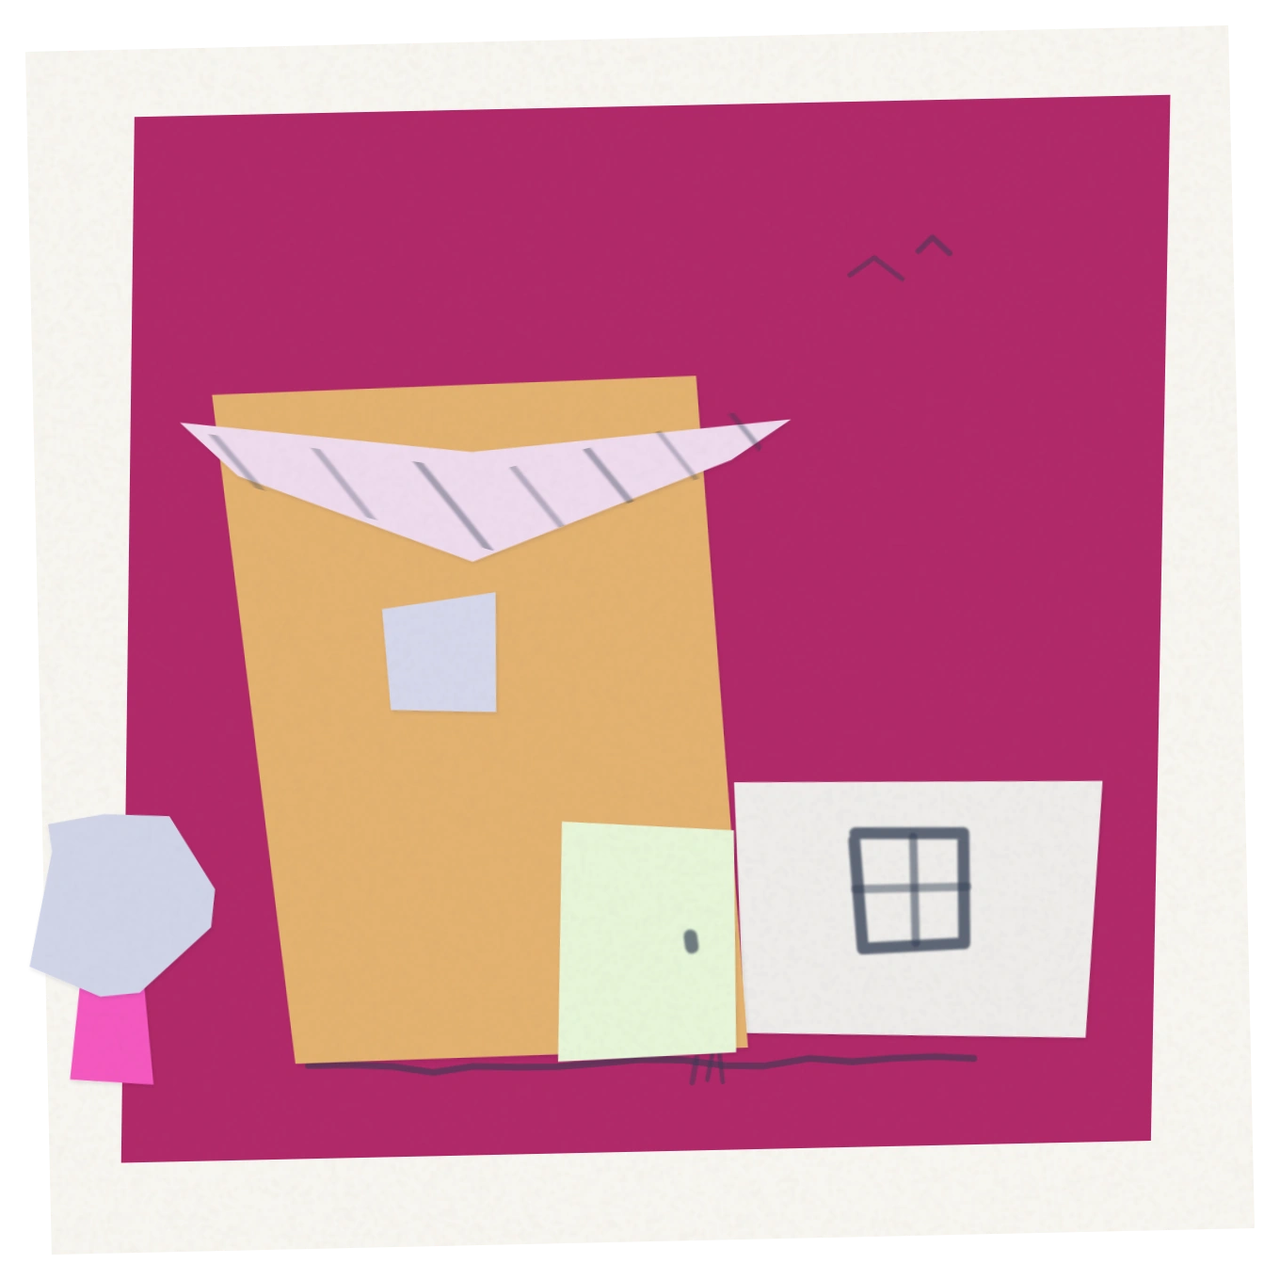
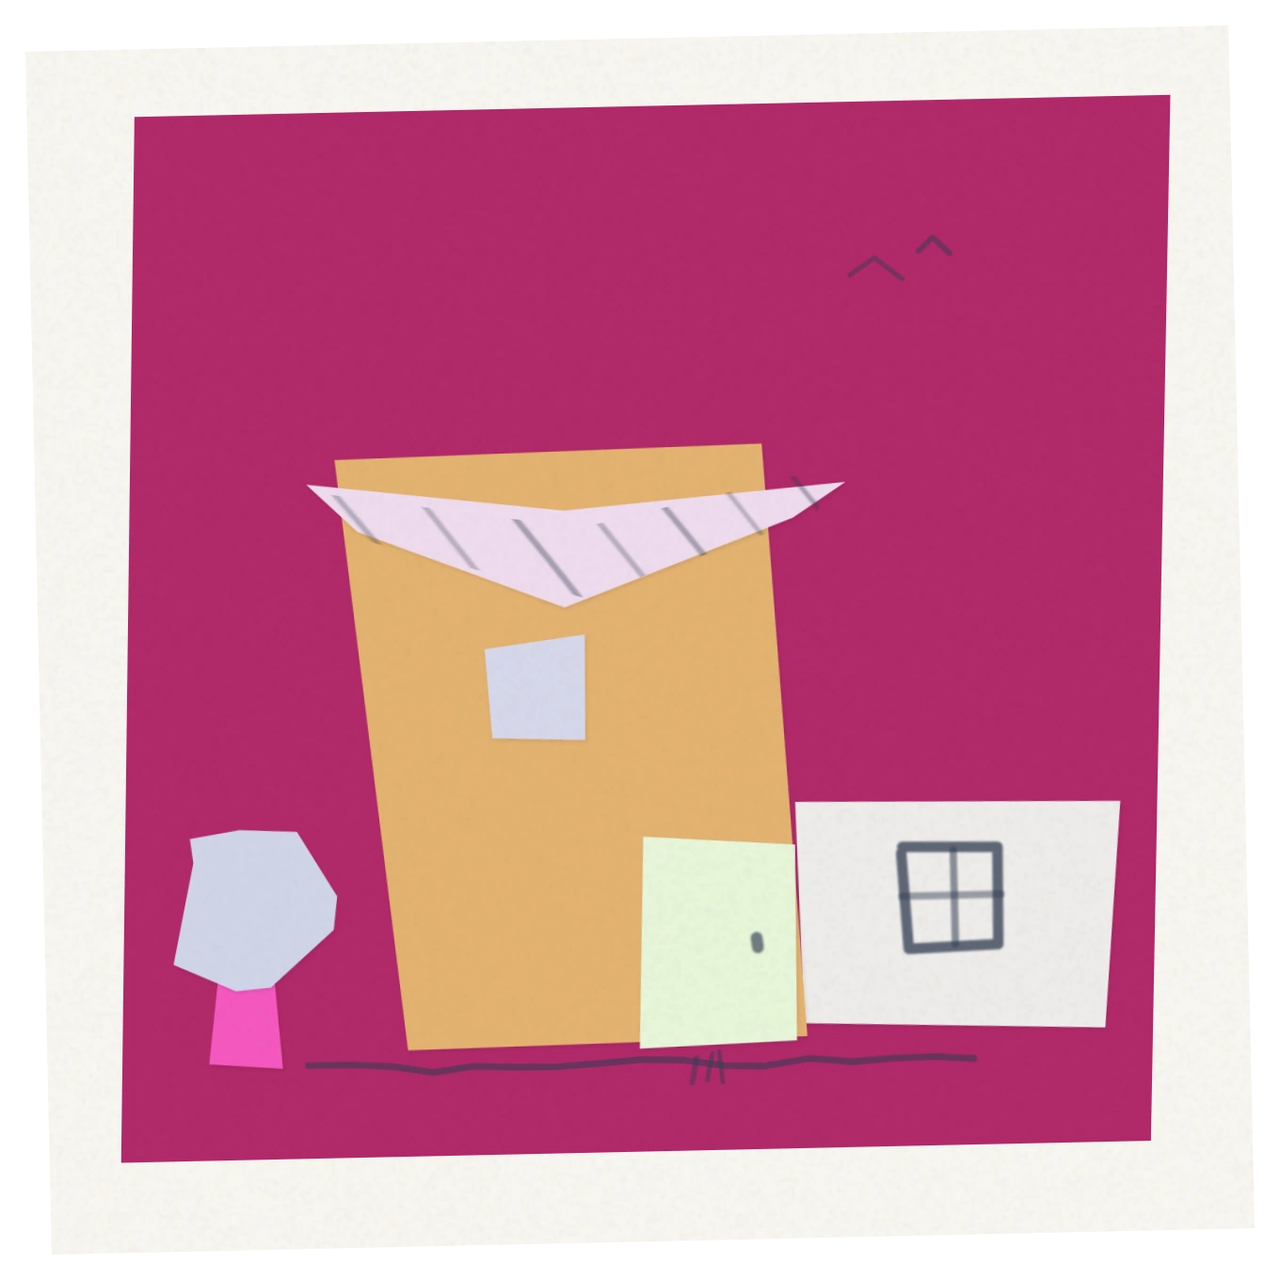
Ejemplos: humo y árbol siempre dentro de la cartulina (limitan el encuadre sin reducir la casa más allá del cap 74)

Changed region(s): [[0.0, 0.2779, 0.8956, 0.8647]]

diff --git a/renderer-examples.js b/renderer-examples.js
@@ -1,1 +1,1 @@
-!function(){var r,t="#a9c3dd",n="#34322c",a=83,i=["#34322c","#3a3833","#2e3134","#403b32","#333d52"];function e(r){return((r=Math.max(0,Math.min(255,Math.round(r))))<16?"0":"")+r.toString(16)}function o(r,t,n){r=(r%360+360)%360,n/=100;var a=(t/=100)*Math.min(n,1-n);function i(t){var i=(t+r/30)%12;return n-a*Math.max(-1,Math.min(i-3,9-i,1))}return"#"+e(255*i(0))+e(255*i(8))+e(255*i(4))}function u(){r=(r|=0)+1831565813|0;var t=Math.imul(r^r>>>15,1|r);return(((t=t+Math.imul(t^t>>>7,61|t)^t)^t>>>14)>>>0)/4294967296}function h(r,t){return r+(t-r)*u()}function f(r){return r[Math.floor(u()*r.length)]}function l(r){return Math.round(100*r)/100}function s(r,t){return[r[0]+h(-t,t),r[1]+h(-t,t)]}function c(r){return"M"+r.map(function(r){return l(r[0])+" "+l(r[1])}).join("L")+"Z"}function v(r,t){var n=p(r),a=p(t);return Math.sqrt(Math.pow(n[0]-a[0],2)+Math.pow(n[1]-a[1],2)+Math.pow(n[2]-a[2],2))}function p(r){return[1,3,5].map(function(t){return parseInt(r.substr(t,2),16)})}function M(r,t,n){return'<path d="'+c(r=function(r,t){var n=0,a=0;r.forEach(function(r){n+=r[0],a+=r[1]}),n/=r.length,a/=r.length;var i=Math.cos(t),e=Math.sin(t);return r.map(function(r){var t=r[0]-n,o=r[1]-a;return[n+t*i-o*e,a+t*e+o*i]})}(r.map(function(r){return s(r,null==n?1.1:n)}),h(-.06,.06)))+'" fill="'+t+'" filter="url(#sh)"/>'}function d(r,t,n,a){return[[r,t],[r+n,t],[r+n,t+a],[r,t+a]]}function g(r,t,n,a,i){for(var e=[],o=h(0,6.28),u=0;u<a;u++){var f=o+u*Math.PI*2/a;e.push([r+Math.cos(f)*n*h(1-i,1+i),t+Math.sin(f)*n*h(1-i,1+i)])}return e}function m(r,t,a){for(var i=[],e=0;e<r.length;e++)if(i.push(s(r[e],.22)),e<r.length-1){var o=r[e],u=r[e+1];Math.hypot(u[0]-o[0],u[1]-o[1])>6&&i.push(s([(o[0]+u[0])/2,(o[1]+u[1])/2],.3))}return'<path d="'+("M"+i.map(function(r){return l(r[0])+" "+l(r[1])}).join("L"))+'" fill="none" stroke="'+n+'" stroke-width="'+l((t||.5)*h(.85,1.15))+'" stroke-linecap="round" stroke-linejoin="round" opacity="'+l((a||1)*h(.55,.78))+'" filter="url(#gr)"/>'}function x(r,t,n,a,i,e){return m([[r,t],[n,a]],i,e)}var w=0;function y(r,t,n,a){for(var i=r.map(function(r){return r[0]}),e=r.map(function(r){return r[1]}),o=Math.min.apply(null,i),u=Math.max.apply(null,i),h=Math.min.apply(null,e),f=Math.max.apply(null,e),l=(o+u)/2,s=(h+f)/2,v=Math.cos(t),p=Math.sin(t),M="",d="hx"+ ++w,g=Math.hypot(u-o,f-h),m=-g;m<=g;m+=n){var y=l-p*m,b=s+v*m;M+=x(y-v*g/2,b-p*g/2,y+v*g/2,b+p*g/2,a,.5)}return'<clipPath id="'+d+'"><path d="'+c(r)+'"/></clipPath><g clip-path="url(#'+d+')">'+M+"</g>"}function b(r,t,n,a){var i=m([[r-n/2,t-a/2],[r+n/2,t-a/2],[r+n/2,t+a/2],[r-n/2,t+a/2],[r-n/2,t-a/2]],.55);return i+=x(r-n/2,t,r+n/2,t,.4,.8)+x(r,t-a/2,r,t+a/2,.4,.8),u()<.6&&(i+=x(r-n/2-1,t+a/2+1,r+n/2+1,t+a/2+1,.5,.7)),i}function j(r,t,n,a){for(var i=m([[r,t],[r+n,t],[r+n,t+a],[r,t+a],[r,t]],.55),e=Math.max(2,Math.round(n/3.2)),o=1;o<e;o++)i+=x(r+n*o/e,t+.6,r+n*o/e,t+a,.3,.55);return i+=m([[r+.78*n,t+.5*a],[r+.82*n,t+.52*a]],.9)}function P(r,t){for(var n="",a=0;a<3;a++)n+=x(r+1.1*a-1.1,t,r+1.1*a-1.1+h(-.7,.7),t-h(1.8,3),.4,.7);return n}function I(){var r=o(h(0,360),h(45,90),h(36,62)),e=function(r){for(var t=[],n=0;t.length<14&&n++<200;){var a=u(),i=a<.3?o(h(0,360),h(25,60),h(80,92)):a<.55?o(h(0,360),h(55,90),h(60,76)):a<.8?o(h(0,360),h(40,80),h(40,58)):o(h(30,60),h(10,35),h(88,96));v(i,r)>110&&t.push(i)}return t}(r),p=[],w=0;do{t=o(h(0,360),h(25,65),u()<.25?h(24,40):h(62,86)),w++}while(v(t,r)<100&&w<40);function I(){var r,t=0;do{r=f(e),t++}while(p.indexOf(r)>-1&&t<20);return p.push(r),r}function S(r){var t,n=0;do{t=I(),n++}while(v(t,r)<55&&n<25);return t}n=f(i);var k,q,B,C="",D="",E="",L=h(80,84),O=Math.floor(h(0,6)),A=I(),G=u()<.25?"#f6f3ee":S(A),T=S(A),U=h(40,60),F=null;function H(r,t,n,a,i){C+=M(d(r-n/2,t-a/2,n,a),i||I(),.5)}function N(r,t,n,a,i){C+=M(d(r,t,n,a),i||I(),.8),u()<.55&&(E+=function(r,t){for(var n=[],a=0;a<=9;a++){var i=.55*a,e=.25+.18*a;n.push([r+Math.cos(i)*e,t-.62*a+Math.sin(i)*e*.5])}return m(n,.4,.6)}(r+n/2,t-1))}if(0===O){var R=U-(Q=h(20,27))/2,Z=L-(V=h(30,40)),z=u()<.5?1:-1;E+=y(er=[[R-3,Z+(z>0?5:0)],[R+Q+3,Z+(z>0?0:5)],[R+Q+4,Z+(z>0?3:8)+3],[R-4,Z+(z>0?8:3)+3]],z>0?.5:-.5,h(2.2,3),.3),u()<.45&&N(z>0?R+Q-6:R+2,Z-6,h(3.5,5.5),h(7,11)),C+=M(d(R,Z,Q,V),A),C+=M(er,G);var J=h(7.5,10),K=h(12,16);C+=M(d(F=R+Q/2-J/2,L-K,J,K),T,.5),D+=m([[F+.75*J,L-.5*K],[F+.79*J,L-.48*K]],.8),u()<.6?D+=b(R+Q*h(.3,.7),Z+V*h(.22,.4),h(5.5,7.5),h(6,8)):H(R+Q*h(.3,.7),Z+.3*V,h(4.5,6),h(4.5,6))}else if(1===O){var Q=h(36,48),V=h(18,25);C+=M(d(R=U-Q/2,Z=L-V,Q,V),A),C+=M(d(R-h(3,5),Z-h(3.4,4.6),Q+h(6,10),h(3,4)),G);var W=Q/((or=Math.round(h(2,4)))+2);J=h(6.5,9),K=h(11,14);F=u()<.5?R+Q-J-2:R+2;for(var X=0;X<or;X++){var Y=R+W*(X+1.4);Y>F-3&&Y<F+J+3||(u()<.7?H(Y,Z+V*h(.42,.55),h(3.6,4.8),h(3.6,4.8)):D+=b(Y,Z+.48*V,h(4.5,6),h(4.5,5.5)))}C+=M(d(F,L-K,J,K),T,.5),D+=m([[F+.7*J,L-.5*K],[F+.74*J,L-.48*K]],.7)}else if(2===O){var $=h(17,23),_=h(28,38),rr=U-$/2-h(4,8),tr=L-_,nr=h(15,22),ar=h(14,20);(hr=rr+$-1)+nr>88&&(hr=rr-nr+1),C+=M(d(hr,fr=L-ar,nr,ar),I()),C+=M(d(rr,tr,$,_),A);var ir=[rr+$*h(.35,.65),tr-h(10,15)];E+=y(er=[[rr-3,tr+1],ir,[rr+$+3,tr+1]],u()<.5?.55:-.55,h(2.4,3.2),.3),C+=M(er,G),C+=M(d(hr-2,fr-3,nr+4,3.4),S(A)),D+=b(rr+$/2,tr+_*h(.2,.32),h(5,6.5),h(5.5,7)),u()<.5&&(D+=b(rr+$/2,tr+.55*_,h(4.5,6),h(5,6))),H(hr+.5*nr,fr+.38*ar,h(3.6,4.6),h(3.6,4.6));J=h(6.5,8.5),K=h(10,13);F=hr+nr/2-J/2,u()<.5?C+=M(d(F,L-K,J,K),T,.5):D+=j(F,L-K,J,K),u()<.5&&N(rr+$*h(.15,.3),tr-h(4,7),h(3,4.5),h(6,9))}else if(3===O){Q=h(26,34),V=h(20,28);C+=M(d(R=U-Q/2,Z=L-V,Q,V),A);var er=[[R-3,Z+2]],or=8;for(X=0;X<=or;X++){var ur=Math.PI-Math.PI*X/or;er.push([R+Q/2+Math.cos(ur)*(Q/2+3),Z+2-Math.sin(ur)*h(9,13)])}er.push([R+Q+3,Z+2]),C+=M(er,G),u()<.5&&(E+=y(er,Math.PI/2,h(2.6,3.4),.28)),D+=(k=R+Q/2,q=Z+V*h(.25,.35),B=h(2.8,3.8),m(g(k,q,B,9,.06).concat([[k+B,q]]),.5)+x(k-B,q,k+B,q,.35,.7)+x(k,q-B,k,q+B,.35,.7));J=h(7,9.5),K=h(11,15);D+=j(F=R+Q/2-J/2+h(-4,4),L-K,J,K)}else if(4===O){Q=h(21,29),V=h(24,33),R=U-Q/2+h(-4,4),Z=L-V,nr=h(13,19),ar=h(12,18);var hr,fr,lr=u()<.5?1:-1;C+=M(d(hr=lr>0?R+Q-1:R-nr+1,fr=L-ar,nr,ar),I()),C+=M(d(R,Z,Q,V),A);var sr=[R+Q/2,Z+h(2,4)],cr=[R-3,Z+h(0,1.5)],vr=[R+Q+3,Z+h(0,1.5)],pr=[R+Q/2,Z+h(6,8.5)];er=[cr,sr,vr,[R+Q+1,Z+h(3,4.5)],pr,[R-1,Z+h(3,4.5)]];E+=y(er,.9,h(2.4,3.2),.28),C+=M(er,G),H(R+Q*h(.25,.4),Z+V*h(.3,.42),h(3.8,5),h(3.8,5)),D+=b(hr+nr/2,fr+.4*ar,h(4,5.5),h(4.5,5.5));J=h(6.5,8.5),K=h(10,13);F=R+Q*h(.6,.75),C+=M(d(F,L-K,J,K),T,.5),D+=m([[F+.72*J,L-.5*K],[F+.76*J,L-.48*K]],.7),u()<.4&&(E+=function(r,t,n,a){var i=M(d(r-.14*n,t-.7*n,.28*n,.7*n),a());return i+M(g(r,t-.95*n,.55*n,9,.18),a())}(lr>0?R-h(6,9):R+Q+h(6,9),L,h(6,9),I))}else{R=U-(Q=h(26,34))/2,Z=L-(V=h(20,27));var Mr=h(15,22);C+=M(d(R,Z,Q,V),A),E+=y(er=[[R-4,Z+1],ir=[R+Q/2,Z-Mr],[R+Q+4,Z+1]],u()<.5?.6:-.6,h(2.4,3.4),.3),C+=M(er,G);var dr=h(4,5.5),gr=h(4,5.5),mr=R+Q/2+h(-3,3),xr=Z-Mr*h(.3,.5);C+=M([[mr-dr/2-1.5,xr+gr/2],[mr,xr-gr/2-2],[mr+dr/2+1.5,xr+gr/2]],S(G),.5),C+=M(d(mr-dr/2,xr-gr/2,dr,gr),I(),.4),D+=b(R+.25*Q,Z+V*h(.35,.45),h(4.5,6),h(5,6)),D+=b(R+.75*Q,Z+V*h(.35,.45),h(4.5,6),h(5,6));J=h(7,9),K=h(11,14);F=R+Q/2-J/2,u()<.5?(C+=M(d(F,L-K,J,K),T,.5),D+=m([[F+.72*J,L-.5*K],[F+.76*J,L-.48*K]],.7)):D+=j(F,L-K,J,K)}for(var wr=function(r){for(var t=[],n=0;n<=8;n++)t.push([24+52*n/8,r+h(-.9,.9)]);return m(t,.5,.85)}(a=L+h(1.2,2)),yr=Math.round(h(0,3)),br=0;br<yr;br++)wr+=P(h(18,82),a+h(.3,1.5));u()<.4&&(wr+=function(r,t,n){for(var a=m(g(r,t,n,10,.05).concat([[r+n,t]]),.5),i=Math.round(h(6,9)),e=0;e<i;e++){var o=e*Math.PI*2/i+h(-.15,.15);a+=x(r+Math.cos(o)*n*1.35,t+Math.sin(o)*n*1.35,r+Math.cos(o)*n*h(1.8,2.2),t+Math.sin(o)*n*h(1.8,2.2),.4,.75)}return a}(h(18,82),h(15,26),h(3,4.5))),u()<.3&&(wr+=function(r,t,n){var a=[],i=Math.round(h(4,6));a.push([r-n/2,t]);for(var e=0;e<i;e++){var o=r-n/2+n*(e+.5)/i;a.push([o-n/(2*i),t-h(1.5,3)],[o,t-h(2.5,4)],[o+n/(2*i),t-h(1.5,3)])}return a.push([r+n/2,t]),m(a,.45,.7)}(h(20,80),h(16,26),h(9,15))),u()<.25&&(wr+=function(r,t){for(var n="",a=Math.round(h(2,3)),i=0;i<a;i++){var e=r+i*h(3,5),o=t+h(-2,2),u=h(1.2,2);n+=m([[e-u,o],[e,o-.8*u],[e+u,o]],.4,.8)}return n}(h(25,70),h(18,28)));var jr=h(-1.4,1.4),Pr=h(-1.8,1.8);return'<svg viewBox="0 0 100 100" xmlns="http://www.w3.org/2000/svg"><defs><filter id="sh" x="-10%" y="-10%" width="125%" height="125%"><feDropShadow dx=".06" dy=".1" stdDeviation=".1" flood-color="#241a30" flood-opacity=".11"/></filter><filter id="gr" filterUnits="userSpaceOnUse" x="-60" y="-60" width="220" height="220"><feTurbulence type="fractalNoise" baseFrequency=".9" numOctaves="2" seed="'+Math.floor(h(1,99))+'" result="n"/><feColorMatrix in="n" type="matrix" values="0 0 0 0 0  0 0 0 0 0  0 0 0 0 0  0 0 0 -7 6.55" result="m"/><feGaussianBlur in="SourceGraphic" stdDeviation=".05" result="b"/><feComposite in="b" in2="m" operator="in"/></filter></defs><g transform="rotate('+l(jr)+' 50 50)"><rect x="3" y="3" width="94" height="94" fill="#f7f5f0"/><g transform="rotate('+l(Pr)+' 50 50)"><path d="'+c([s([10,9],.8),s([91,8],.8),s([90.5,89],.8),s([9.5,90],.8)])+'" fill="'+r+'"/><g id="sc">'+wr+'</g><g id="hs"><g id="hb">'+C+D+"</g>"+E+'</g></g><image x="3" y="3" width="94" height="94" href="paper.png" preserveAspectRatio="none"/></g></svg>'}var S=0;window.CasasEx={render:function(n,i,e){r=null==e?4294967296*Math.random()>>>0:e;var o=I(),u="-ex-r"+ ++S;["sh","gr"].forEach(function(r){o=o.split('id="'+r+'"').join('id="'+r+u+'"').split("url(#"+r+")").join("url(#"+r+u+")")}),o=o.split('id="hx').join('id="hx'+u+"-").split("url(#hx").join("url(#hx"+u+"-"),n.innerHTML=o;var f=n.querySelector("#hs"),s=n.querySelector("#hb").getBBox(),c=Math.min(74/s.width,74/s.height)*h(.92,1),v=s.x+s.width/2,p=s.y+s.height/2,M=50+h(-2.5,2.5),d=a-.5-c*s.height/2;return f.setAttribute("transform","translate("+l(M)+" "+l(d)+") rotate("+l(h(-1.6,1.6))+") scale("+l(c)+") translate("+l(-v)+" "+l(-p)+")"),{background:t,shared:!1}},setCommunity:function(){}}}();
+!function(){var t,r="#a9c3dd",n="#34322c",a=83,i=["#34322c","#3a3833","#2e3134","#403b32","#333d52"];function e(t){return((t=Math.max(0,Math.min(255,Math.round(t))))<16?"0":"")+t.toString(16)}function o(t,r,n){t=(t%360+360)%360,n/=100;var a=(r/=100)*Math.min(n,1-n);function i(r){var i=(r+t/30)%12;return n-a*Math.max(-1,Math.min(i-3,9-i,1))}return"#"+e(255*i(0))+e(255*i(8))+e(255*i(4))}function h(){t=(t|=0)+1831565813|0;var r=Math.imul(t^t>>>15,1|t);return(((r=r+Math.imul(r^r>>>7,61|r)^r)^r>>>14)>>>0)/4294967296}function u(t,r){return t+(r-t)*h()}function f(t){return t[Math.floor(h()*t.length)]}function l(t){return Math.round(100*t)/100}function s(t,r){return[t[0]+u(-r,r),t[1]+u(-r,r)]}function c(t){return"M"+t.map(function(t){return l(t[0])+" "+l(t[1])}).join("L")+"Z"}function v(t,r){var n=d(t),a=d(r);return Math.sqrt(Math.pow(n[0]-a[0],2)+Math.pow(n[1]-a[1],2)+Math.pow(n[2]-a[2],2))}function d(t){return[1,3,5].map(function(r){return parseInt(t.substr(r,2),16)})}function p(t,r,n){return'<path d="'+c(t=function(t,r){var n=0,a=0;t.forEach(function(t){n+=t[0],a+=t[1]}),n/=t.length,a/=t.length;var i=Math.cos(r),e=Math.sin(r);return t.map(function(t){var r=t[0]-n,o=t[1]-a;return[n+r*i-o*e,a+r*e+o*i]})}(t.map(function(t){return s(t,null==n?1.1:n)}),u(-.06,.06)))+'" fill="'+r+'" filter="url(#sh)"/>'}function M(t,r,n,a){return[[t,r],[t+n,r],[t+n,r+a],[t,r+a]]}function g(t,r,n,a,i){for(var e=[],o=u(0,6.28),h=0;h<a;h++){var f=o+h*Math.PI*2/a;e.push([t+Math.cos(f)*n*u(1-i,1+i),r+Math.sin(f)*n*u(1-i,1+i)])}return e}function m(t,r,a){for(var i=[],e=0;e<t.length;e++)if(i.push(s(t[e],.22)),e<t.length-1){var o=t[e],h=t[e+1];Math.hypot(h[0]-o[0],h[1]-o[1])>6&&i.push(s([(o[0]+h[0])/2,(o[1]+h[1])/2],.3))}return'<path d="'+("M"+i.map(function(t){return l(t[0])+" "+l(t[1])}).join("L"))+'" fill="none" stroke="'+n+'" stroke-width="'+l((r||.5)*u(.85,1.15))+'" stroke-linecap="round" stroke-linejoin="round" opacity="'+l((a||1)*u(.55,.78))+'" filter="url(#gr)"/>'}function x(t,r,n,a,i,e){return m([[t,r],[n,a]],i,e)}var w=0;function y(t,r,n,a){for(var i=t.map(function(t){return t[0]}),e=t.map(function(t){return t[1]}),o=Math.min.apply(null,i),h=Math.max.apply(null,i),u=Math.min.apply(null,e),f=Math.max.apply(null,e),l=(o+h)/2,s=(u+f)/2,v=Math.cos(r),d=Math.sin(r),p="",M="hx"+ ++w,g=Math.hypot(h-o,f-u),m=-g;m<=g;m+=n){var y=l-d*m,b=s+v*m;p+=x(y-v*g/2,b-d*g/2,y+v*g/2,b+d*g/2,a,.5)}return'<clipPath id="'+M+'"><path d="'+c(t)+'"/></clipPath><g clip-path="url(#'+M+')">'+p+"</g>"}function b(t,r,n,a){var i=m([[t-n/2,r-a/2],[t+n/2,r-a/2],[t+n/2,r+a/2],[t-n/2,r+a/2],[t-n/2,r-a/2]],.55);return i+=x(t-n/2,r,t+n/2,r,.4,.8)+x(t,r-a/2,t,r+a/2,.4,.8),h()<.6&&(i+=x(t-n/2-1,r+a/2+1,t+n/2+1,r+a/2+1,.5,.7)),i}function j(t,r,n,a){for(var i=m([[t,r],[t+n,r],[t+n,r+a],[t,r+a],[t,r]],.55),e=Math.max(2,Math.round(n/3.2)),o=1;o<e;o++)i+=x(t+n*o/e,r+.6,t+n*o/e,r+a,.3,.55);return i+=m([[t+.78*n,r+.5*a],[t+.82*n,r+.52*a]],.9)}function P(t,r){for(var n="",a=0;a<3;a++)n+=x(t+1.1*a-1.1,r,t+1.1*a-1.1+u(-.7,.7),r-u(1.8,3),.4,.7);return n}function S(){var t=o(u(0,360),u(45,90),u(36,62)),e=function(t){for(var r=[],n=0;r.length<14&&n++<200;){var a=h(),i=a<.3?o(u(0,360),u(25,60),u(80,92)):a<.55?o(u(0,360),u(55,90),u(60,76)):a<.8?o(u(0,360),u(40,80),u(40,58)):o(u(30,60),u(10,35),u(88,96));v(i,t)>110&&r.push(i)}return r}(t),d=[],w=0;do{r=o(u(0,360),u(25,65),h()<.25?u(24,40):u(62,86)),w++}while(v(r,t)<100&&w<40);function S(){var t,r=0;do{t=f(e),r++}while(d.indexOf(t)>-1&&r<20);return d.push(t),t}function B(t){var r,n=0;do{r=S(),n++}while(v(r,t)<55&&n<25);return r}n=f(i);var I,k,q,C="",D="",E="",L="",O=u(80,84),A=Math.floor(u(0,6)),G=S(),N=h()<.25?"#f6f3ee":B(G),T=B(G),U=u(40,60),F=null;function H(t,r,n,a,i){C+=p(M(t-n/2,r-a/2,n,a),i||S(),.5)}function R(t,r,n,a,i){C+=p(M(t,r,n,a),i||S(),.8),h()<.55&&(L+=function(t,r){for(var n=[],a=0;a<=9;a++){var i=.55*a,e=.25+.18*a;n.push([t+Math.cos(i)*e,r-.62*a+Math.sin(i)*e*.5])}return m(n,.4,.6)}(t+n/2,r-1))}if(0===A){var Z=U-(V=u(20,27))/2,z=O-(W=u(30,40)),J=h()<.5?1:-1;E+=y(et=[[Z-3,z+(J>0?5:0)],[Z+V+3,z+(J>0?0:5)],[Z+V+4,z+(J>0?3:8)+3],[Z-4,z+(J>0?8:3)+3]],J>0?.5:-.5,u(2.2,3),.3),h()<.45&&R(J>0?Z+V-6:Z+2,z-6,u(3.5,5.5),u(7,11)),C+=p(M(Z,z,V,W),G),C+=p(et,N);var K=u(7.5,10),Q=u(12,16);C+=p(M(F=Z+V/2-K/2,O-Q,K,Q),T,.5),D+=m([[F+.75*K,O-.5*Q],[F+.79*K,O-.48*Q]],.8),h()<.6?D+=b(Z+V*u(.3,.7),z+W*u(.22,.4),u(5.5,7.5),u(6,8)):H(Z+V*u(.3,.7),z+.3*W,u(4.5,6),u(4.5,6))}else if(1===A){var V=u(36,48),W=u(18,25);C+=p(M(Z=U-V/2,z=O-W,V,W),G),C+=p(M(Z-u(3,5),z-u(3.4,4.6),V+u(6,10),u(3,4)),N);var X=V/((ot=Math.round(u(2,4)))+2);K=u(6.5,9),Q=u(11,14);F=h()<.5?Z+V-K-2:Z+2;for(var Y=0;Y<ot;Y++){var $=Z+X*(Y+1.4);$>F-3&&$<F+K+3||(h()<.7?H($,z+W*u(.42,.55),u(3.6,4.8),u(3.6,4.8)):D+=b($,z+.48*W,u(4.5,6),u(4.5,5.5)))}C+=p(M(F,O-Q,K,Q),T,.5),D+=m([[F+.7*K,O-.5*Q],[F+.74*K,O-.48*Q]],.7)}else if(2===A){var _=u(17,23),tt=u(28,38),rt=U-_/2-u(4,8),nt=O-tt,at=u(15,22),it=u(14,20);(ut=rt+_-1)+at>88&&(ut=rt-at+1),C+=p(M(ut,ft=O-it,at,it),S()),C+=p(M(rt,nt,_,tt),G),E+=y(et=[[rt-3,nt+1],[rt+_*u(.35,.65),nt-u(10,15)],[rt+_+3,nt+1]],h()<.5?.55:-.55,u(2.4,3.2),.3),C+=p(et,N),C+=p(M(ut-2,ft-3,at+4,3.4),B(G)),D+=b(rt+_/2,nt+tt*u(.2,.32),u(5,6.5),u(5.5,7)),h()<.5&&(D+=b(rt+_/2,nt+.55*tt,u(4.5,6),u(5,6))),H(ut+.5*at,ft+.38*it,u(3.6,4.6),u(3.6,4.6));K=u(6.5,8.5),Q=u(10,13);F=ut+at/2-K/2,h()<.5?C+=p(M(F,O-Q,K,Q),T,.5):D+=j(F,O-Q,K,Q),h()<.5&&R(rt+_*u(.15,.3),nt-u(4,7),u(3,4.5),u(6,9))}else if(3===A){V=u(26,34),W=u(20,28);C+=p(M(Z=U-V/2,z=O-W,V,W),G);var et=[[Z-3,z+2]],ot=8;for(Y=0;Y<=ot;Y++){var ht=Math.PI-Math.PI*Y/ot;et.push([Z+V/2+Math.cos(ht)*(V/2+3),z+2-Math.sin(ht)*u(9,13)])}et.push([Z+V+3,z+2]),C+=p(et,N),h()<.5&&(E+=y(et,Math.PI/2,u(2.6,3.4),.28)),D+=(I=Z+V/2,k=z+W*u(.25,.35),q=u(2.8,3.8),m(g(I,k,q,9,.06).concat([[I+q,k]]),.5)+x(I-q,k,I+q,k,.35,.7)+x(I,k-q,I,k+q,.35,.7));K=u(7,9.5),Q=u(11,15);D+=j(F=Z+V/2-K/2+u(-4,4),O-Q,K,Q)}else if(4===A){V=u(21,29),W=u(24,33),Z=U-V/2+u(-4,4),z=O-W,at=u(13,19),it=u(12,18);var ut,ft,lt=h()<.5?1:-1;C+=p(M(ut=lt>0?Z+V-1:Z-at+1,ft=O-it,at,it),S()),C+=p(M(Z,z,V,W),G);var st=[Z+V/2,z+u(2,4)],ct=[Z-3,z+u(0,1.5)],vt=[Z+V+3,z+u(0,1.5)],dt=[Z+V/2,z+u(6,8.5)];E+=y(et=[ct,st,vt,[Z+V+1,z+u(3,4.5)],dt,[Z-1,z+u(3,4.5)]],.9,u(2.4,3.2),.28),C+=p(et,N),H(Z+V*u(.25,.4),z+W*u(.3,.42),u(3.8,5),u(3.8,5)),D+=b(ut+at/2,ft+.4*it,u(4,5.5),u(4.5,5.5));K=u(6.5,8.5),Q=u(10,13);F=Z+V*u(.6,.75),C+=p(M(F,O-Q,K,Q),T,.5),D+=m([[F+.72*K,O-.5*Q],[F+.76*K,O-.48*Q]],.7),h()<.4&&(L+=function(t,r,n,a){var i=p(M(t-.14*n,r-.7*n,.28*n,.7*n),a());return i+p(g(t,r-.95*n,.55*n,9,.18),a())}(lt>0?Z-u(6,9):Z+V+u(6,9),O,u(6,9),S))}else{Z=U-(V=u(26,34))/2,z=O-(W=u(20,27));var pt=u(15,22);C+=p(M(Z,z,V,W),G),E+=y(et=[[Z-4,z+1],[Z+V/2,z-pt],[Z+V+4,z+1]],h()<.5?.6:-.6,u(2.4,3.4),.3),C+=p(et,N);var Mt=u(4,5.5),gt=u(4,5.5),mt=Z+V/2+u(-3,3),xt=z-pt*u(.3,.5);C+=p([[mt-Mt/2-1.5,xt+gt/2],[mt,xt-gt/2-2],[mt+Mt/2+1.5,xt+gt/2]],B(N),.5),C+=p(M(mt-Mt/2,xt-gt/2,Mt,gt),S(),.4),D+=b(Z+.25*V,z+W*u(.35,.45),u(4.5,6),u(5,6)),D+=b(Z+.75*V,z+W*u(.35,.45),u(4.5,6),u(5,6));K=u(7,9),Q=u(11,14);F=Z+V/2-K/2,h()<.5?(C+=p(M(F,O-Q,K,Q),T,.5),D+=m([[F+.72*K,O-.5*Q],[F+.76*K,O-.48*Q]],.7)):D+=j(F,O-Q,K,Q)}for(var wt=function(t){for(var r=[],n=0;n<=8;n++)r.push([24+52*n/8,t+u(-.9,.9)]);return m(r,.5,.85)}(a=O+u(1.2,2)),yt=Math.round(u(0,3)),bt=0;bt<yt;bt++)wt+=P(u(18,82),a+u(.3,1.5));h()<.4&&(wt+=function(t,r,n){for(var a=m(g(t,r,n,10,.05).concat([[t+n,r]]),.5),i=Math.round(u(6,9)),e=0;e<i;e++){var o=e*Math.PI*2/i+u(-.15,.15);a+=x(t+Math.cos(o)*n*1.35,r+Math.sin(o)*n*1.35,t+Math.cos(o)*n*u(1.8,2.2),r+Math.sin(o)*n*u(1.8,2.2),.4,.75)}return a}(u(18,82),u(15,26),u(3,4.5))),h()<.3&&(wt+=function(t,r,n){var a=[],i=Math.round(u(4,6));a.push([t-n/2,r]);for(var e=0;e<i;e++){var o=t-n/2+n*(e+.5)/i;a.push([o-n/(2*i),r-u(1.5,3)],[o,r-u(2.5,4)],[o+n/(2*i),r-u(1.5,3)])}return a.push([t+n/2,r]),m(a,.45,.7)}(u(20,80),u(16,26),u(9,15))),h()<.25&&(wt+=function(t,r){for(var n="",a=Math.round(u(2,3)),i=0;i<a;i++){var e=t+i*u(3,5),o=r+u(-2,2),h=u(1.2,2);n+=m([[e-h,o],[e,o-.8*h],[e+h,o]],.4,.8)}return n}(u(25,70),u(18,28)));var jt=u(-1.4,1.4),Pt=u(-1.8,1.8);return'<svg viewBox="0 0 100 100" xmlns="http://www.w3.org/2000/svg"><defs><filter id="sh" x="-10%" y="-10%" width="125%" height="125%"><feDropShadow dx=".06" dy=".1" stdDeviation=".1" flood-color="#241a30" flood-opacity=".11"/></filter><filter id="gr" filterUnits="userSpaceOnUse" x="-60" y="-60" width="220" height="220"><feTurbulence type="fractalNoise" baseFrequency=".9" numOctaves="2" seed="'+Math.floor(u(1,99))+'" result="n"/><feColorMatrix in="n" type="matrix" values="0 0 0 0 0  0 0 0 0 0  0 0 0 0 0  0 0 0 -7 6.55" result="m"/><feGaussianBlur in="SourceGraphic" stdDeviation=".05" result="b"/><feComposite in="b" in2="m" operator="in"/></filter></defs><g transform="rotate('+l(jt)+' 50 50)"><rect x="3" y="3" width="94" height="94" fill="#f7f5f0"/><g transform="rotate('+l(Pt)+' 50 50)"><path d="'+c([s([10,9],.8),s([91,8],.8),s([90.5,89],.8),s([9.5,90],.8)])+'" fill="'+t+'"/><g id="sc">'+wt+'</g><g id="hs"><g id="hb">'+C+D+'</g><g id="xr">'+L+"</g>"+E+'</g></g><image x="3" y="3" width="94" height="94" href="paper.png" preserveAspectRatio="none"/></g></svg>'}var B=0;window.CasasEx={render:function(n,i,e){t=null==e?4294967296*Math.random()>>>0:e;var o=S(),h="-ex-r"+ ++B;["sh","gr"].forEach(function(t){o=o.split('id="'+t+'"').join('id="'+t+h+'"').split("url(#"+t+")").join("url(#"+t+h+")")}),o=o.split('id="hx').join('id="hx'+h+"-").split("url(#hx").join("url(#hx"+h+"-"),n.innerHTML=o;var f=n.querySelector("#hs"),s=n.querySelector("#hb").getBBox(),c=s,v=n.querySelector("#xr");if(v&&v.childNodes.length){var d=v.getBBox(),p=Math.min(s.x,d.x),M=Math.min(s.y,d.y);c={x:p,y:M,width:Math.max(s.x+s.width,d.x+d.width)-p,height:Math.max(s.y+s.height,d.y+d.height)-M}}var g=Math.min(74/s.width,74/s.height)*u(.92,1);g=Math.min(g,74/c.width,74/c.height);var m=c.x+c.width/2,x=c.y+c.height/2,w=50+u(-2.5,2.5),y=a-.5-g*c.height/2;return w=Math.max(11+g*c.width/2,Math.min(89-g*c.width/2,w)),f.setAttribute("transform","translate("+l(w)+" "+l(y)+") rotate("+l(u(-1.6,1.6))+") scale("+l(g)+") translate("+l(-m)+" "+l(-x)+")"),{background:r,shared:!1}},setCommunity:function(){}}}();

diff --git a/src/renderer-examples.js b/src/renderer-examples.js
@@ -100,7 +100,7 @@
     function col(){var c,t=0;do{c=pick(others);t++}while(used.indexOf(c)>-1&&t<20);used.push(c);return c}
     function colFar(far){var c,t=0;do{c=col();t++}while(dist(c,far)<55&&t<25);return c}
 
-    var out='',penTop='',penBack='',extra='';
+    var out='',penTop='',penBack='',extra='',near='';
     var baseY=R(80,84);
     var kind=Math.floor(R(0,6));
     var bodyCol=col(),roofCol=rnd()<.25?'#f6f3ee':colFar(bodyCol),doorCol=colFar(bodyCol);
@@ -108,7 +108,7 @@
     var doorX=null,doorBase=null;
 
     function paperWin(cx,cy,w,h,c){out+=piece(rect(cx-w/2,cy-h/2,w,h),c||col(),.5)}
-    function chimney(x,y,w,h,c){out+=piece(rect(x,y,w,h),c||col(),.8);if(rnd()<.55)extra+=smoke(x+w/2,y-1)}
+    function chimney(x,y,w,h,c){out+=piece(rect(x,y,w,h),c||col(),.8);if(rnd()<.55)near+=smoke(x+w/2,y-1)}
 
     if(kind===0){ // casa alta con tejado inclinado (shed)
       var bw=R(20,27),bh=R(30,40),bx=cx0-bw/2,by=baseY-bh,sl=rnd()<.5?1:-1;
@@ -178,7 +178,7 @@
       var dw=R(6.5,8.5),dh=R(10,13);doorX=bx+bw*R(.6,.75);doorBase=baseY;
       out+=piece(rect(doorX,baseY-dh,dw,dh),doorCol,.5);
       penTop+=pen([[doorX+dw*.72,baseY-dh*.5],[doorX+dw*.76,baseY-dh*.48]],.7);
-      if(rnd()<.4)extra+=tree(side>0?bx-R(6,9):bx+bw+R(6,9),baseY,R(6,9),col);
+      if(rnd()<.4)near+=tree(side>0?bx-R(6,9):bx+bw+R(6,9),baseY,R(6,9),col);
     }
     else { // frontón con buhardilla
       var bw=R(26,34),bh=R(20,27),bx=cx0-bw/2,by=baseY-bh,rh=R(15,22);
@@ -211,7 +211,7 @@
      '<filter id="gr" filterUnits="userSpaceOnUse" x="-60" y="-60" width="220" height="220"><feTurbulence type="fractalNoise" baseFrequency=".9" numOctaves="2" seed="'+gseed+'" result="n"/><feColorMatrix in="n" type="matrix" values="0 0 0 0 0  0 0 0 0 0  0 0 0 0 0  0 0 0 -7 6.55" result="m"/><feGaussianBlur in="SourceGraphic" stdDeviation=".05" result="b"/><feComposite in="b" in2="m" operator="in"/></filter></defs>'+
      '<g transform="rotate('+f(rotp)+' 50 50)"><rect x="3" y="3" width="94" height="94" fill="#f7f5f0"/>'+
      '<g transform="rotate('+f(rotb)+' 50 50)"><path d="'+path([J([10,9],.8),J([91,8],.8),J([90.5,89],.8),J([9.5,90],.8)])+'" fill="'+bg+'"/>'+
-     '<g id="sc">'+sky+'</g><g id="hs"><g id="hb">'+penBack+out+penTop+'</g>'+extra+'</g></g>'+
+     '<g id="sc">'+sky+'</g><g id="hs"><g id="hb">'+penBack+out+penTop+'</g><g id="xr">'+near+'</g>'+extra+'</g></g>'+
      '<image x="3" y="3" width="94" height="94" href="paper.png" preserveAspectRatio="none"/></g></svg>';
     return svg;
   }
@@ -223,8 +223,16 @@
     ['sh','gr'].forEach(function(id){markup=markup.split('id="'+id+'"').join('id="'+id+uid+'"').split('url(#'+id+')').join('url(#'+id+uid+')')});
     markup=markup.split('id="hx').join('id="hx'+uid+'-').split('url(#hx').join('url(#hx'+uid+'-');
     target.innerHTML=markup;
-    var g=target.querySelector('#hs'),b=target.querySelector('#hb').getBBox(),k=Math.min(74/b.width,74/b.height)*R(.92,1);
-    var cx=b.x+b.width/2,cy=b.y+b.height/2,tx=50+R(-2.5,2.5),ty=LASTGY-.5-k*b.height/2;
+    var g=target.querySelector('#hs'),b=target.querySelector('#hb').getBBox();
+    // Encuadre: la escala la manda la casa (#hb); humo y árbol (#xr) solo limitan
+    // para que nada quede flotando fuera de la cartulina. El hatch queda fuera de
+    // la medida: sus líneas sobrepasan el tejado antes del recorte visual.
+    var cb=b,xr=target.querySelector('#xr');
+    if(xr&&xr.childNodes.length){var x=xr.getBBox(),x0=Math.min(b.x,x.x),y0=Math.min(b.y,x.y),x1=Math.max(b.x+b.width,x.x+x.width),y1=Math.max(b.y+b.height,x.y+x.height);cb={x:x0,y:y0,width:x1-x0,height:y1-y0}}
+    var k=Math.min(74/b.width,74/b.height)*R(.92,1);
+    k=Math.min(k,74/cb.width,74/cb.height);
+    var cx=cb.x+cb.width/2,cy=cb.y+cb.height/2,tx=50+R(-2.5,2.5),ty=LASTGY-.5-k*cb.height/2;
+    tx=Math.max(11+k*cb.width/2,Math.min(89-k*cb.width/2,tx));
     g.setAttribute('transform','translate('+f(tx)+' '+f(ty)+') rotate('+f(R(-1.6,1.6))+') scale('+f(k)+') translate('+f(-cx)+' '+f(-cy)+')');
     return {background:PAGE,shared:false};
   }
